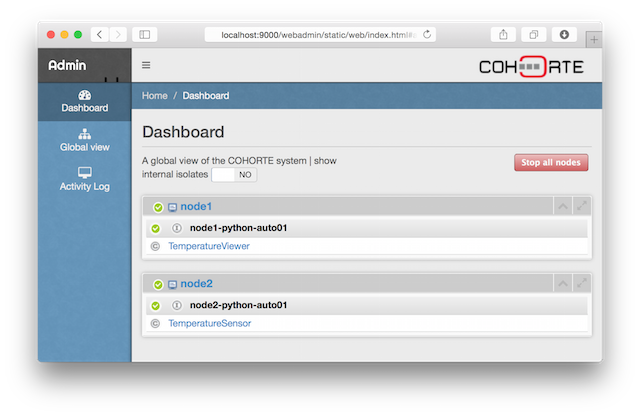
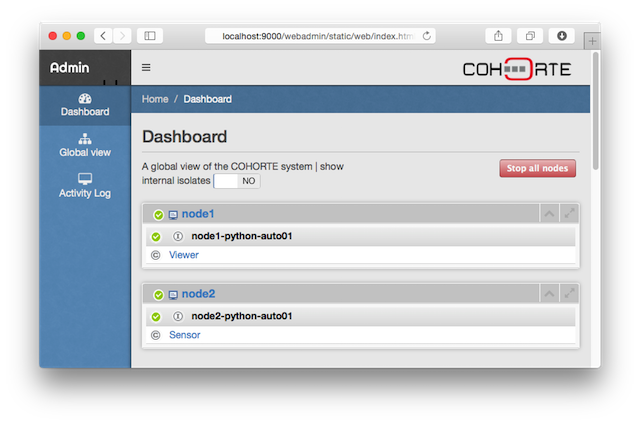
adding getting started tuto (complet)

diff --git a/docs/1.1/getting-started/index.md b/docs/1.1/getting-started/index.md
@@ -36,8 +36,11 @@ $ cohorte-version
 
 In this getting started tutorial, we will create a simple application consisting of two components deployed on two different nodes.
 
-We have one component A providing a Temperature Service and another component B consuming this service to show the current temperature on a Web page.   
+We have one component `Sensor` providing a `Temperature Service` and another component `Viewer` consuming this service to show the current temperature on a Web page.   
 
+![img0](getting-started-img0.png)
+
+In Cohorte, developers concentrate on the architecture of the application, not deployment constraints. Here we have a simple service-oriented application composed of two components which will be deployed on different (distributed) nodes. Developers have not to worry about this details. 
 
 ## Creating Cohorte Nodes
 
@@ -71,13 +74,13 @@ On `node1/conf` directory, update `composition.js` to provide the composition of
         "name": "myapp-composition",
         "components": [
             {
-                "factory" : "org.example.temperature.Viewer",
-                "name"    : "TemperatureViewer",
+                "name"    : "Viewer",
+                "factory" : "org.example.temperature.Viewer",                
                 "node"    : "node1"
             },
             {
-                "factory" : "org.example.temperature.Sensor",
-                "name"    : "TemperatureSensor",
+                "name"    : "Sensor",
+                "factory" : "org.example.temperature.Sensor",                
                 "node"    : "node2"
             }
         ]
@@ -85,7 +88,7 @@ On `node1/conf` directory, update `composition.js` to provide the composition of
 } 
 {% endhighlight %}
 
-We will have two component instances named `TemperatureViewer` and `TemperatureSensor` located on `node1` and `node2` respectively. 
+We will have two component instances named `Viewer` and `Sensor` located on `node1` and `node2` respectively. 
 Each component insance will be created using a **Factory** (or **Component Factory**), which is no more than a simple Classes providing and consuming services.
  
 ## Implementing Service-Oriented Components
@@ -112,7 +115,7 @@ import random
 class Sensor(object):
 		
     def get_temperature(self):
-         return randrange(0, 50)
+        return randrange(0, 50)
 {% endhighlight %}
 
 This component implements `TemperatureService` service which has one method `get_temperature()` that returns, for simplicity, a random number between 0 and 50. 
@@ -134,7 +137,7 @@ class Viewer(object):
         path = None
 		
     def do_GET(self, request, response):
-        temp = sensor.get_temperature()
+        temp = self.sensor.get_temperature()
         result = "<H3>Actual Temperature : {0}</h3>".format(temp)
         response.send_content(200, result, "text/html")
 {% endhighlight %}
@@ -204,3 +207,11 @@ On each node, we have the desired component instances that runs on python **Isol
 * Click on `node1-python-auto01` to get detailed information. Figure out *HTTP-PORT* property to get its concret http port on which the HTTP service is accessible.
 
 ![img3](getting-started-img3.png)
+
+* Open a new browser and type the following address : `http://localhost:51212` where `51212` is the actual Http Port of the container (isolat) of the `Viewer` component instance.
+
+![img4](getting-started-img4.png)
+
+* Refresh the webpage to see different values returned by the `TemperatureService` implemented by `Sensor` component and consumed by `Viewer` component.
+
+
